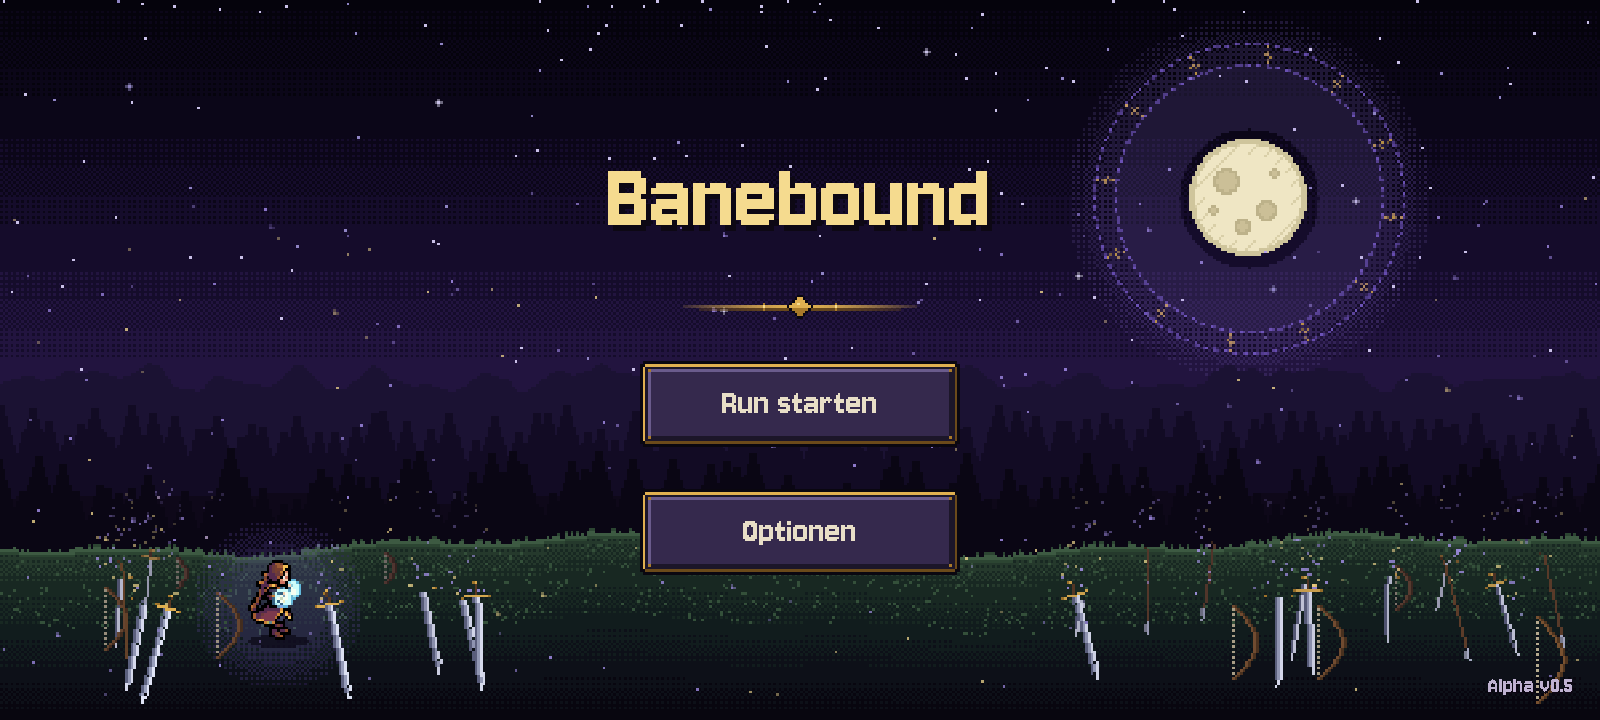
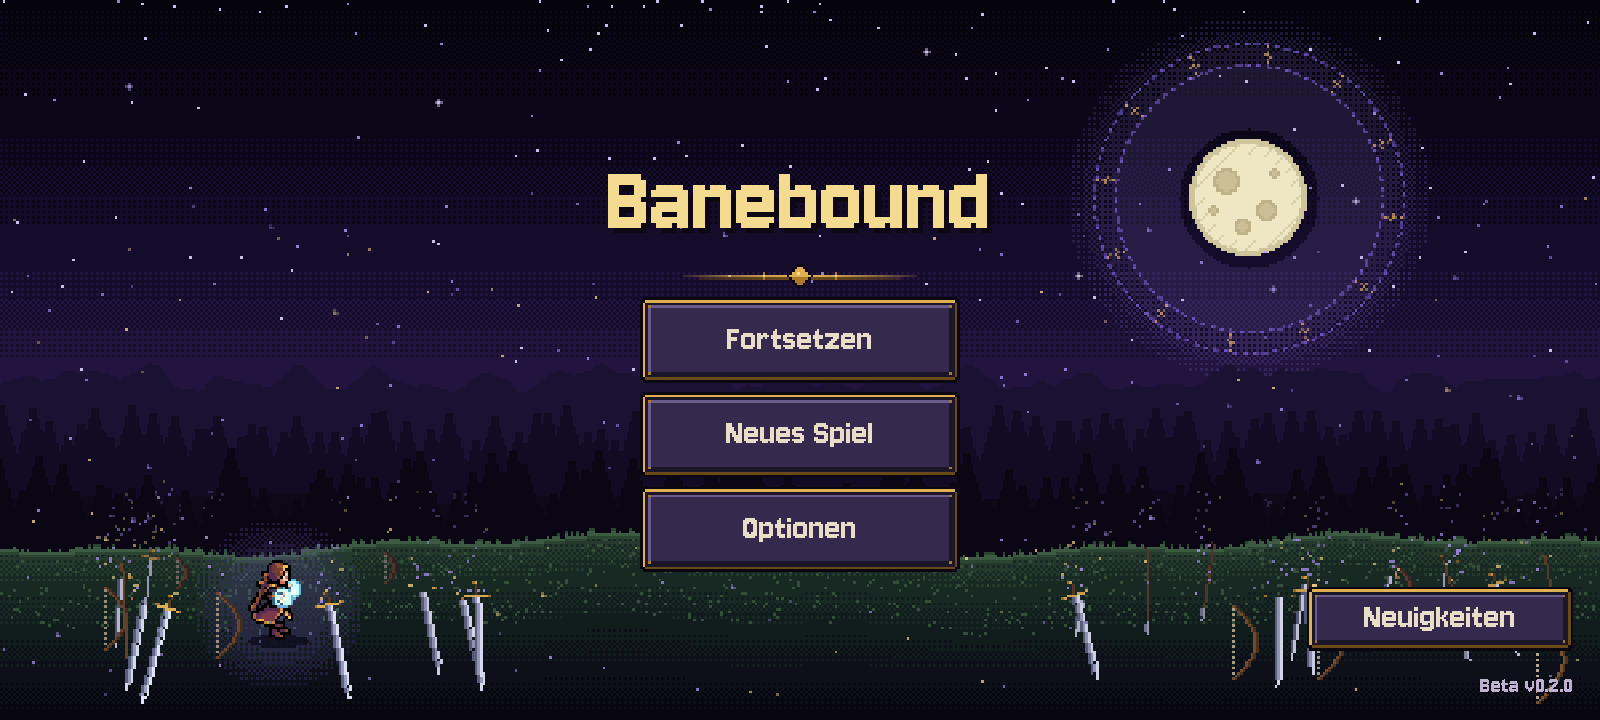
M8 complete: Beta v0.2.0, changelog entry, README with new screenshots
- Version Beta v0.2.0 (project.godot, export preset version code 5)
- Changelog: v0.2.0 entry dated 24.11.2026
- README: status, features and seven new screenshots (main menu,
  save slots, combat, level-up, resting place, status, run summary)
- PLAN: M8 marked complete

diff --git a/README.md b/README.md
@@ -9,11 +9,15 @@ from pure need, and return to rebuild a village that the old wars left in ashes.
   <img src="docs/screenshots/combat.png" alt="Fighting a horde of skeletons with four weapons" width="100%">
 </p>
 
-| Main menu | Level-up | Status screen |
+| Main menu | Save slots | Level-up |
 |---|---|---|
-| ![Main menu](docs/screenshots/main_menu.png) | ![Level-up cards](docs/screenshots/level_up.png) | ![Pause and status screen](docs/screenshots/pause_menu.png) |
+| ![Main menu](docs/screenshots/main_menu.png) | ![Three named save slots](docs/screenshots/save_slots.png) | ![Level-up cards with reroll and skip](docs/screenshots/level_up.png) |
 
-<sub>Screenshots from Alpha v0.5, recorded on PC in the aspect ratio of the test phone (20:9).</sub>
+| Resting place | Status screen | Run summary |
+|---|---|---|
+| ![Resting place with the soul shop](docs/screenshots/rest_stop.png) | ![Pause and status screen](docs/screenshots/pause_menu.png) | ![Victory screen with run summary](docs/screenshots/summary.png) |
+
+<sub>Screenshots from Beta v0.2.0, recorded on PC in the aspect ratio of the test phone (20:9).</sub>
 
 ---
 
@@ -46,12 +50,12 @@ from pure need, and return to rebuild a village that the old wars left in ashes.
   the enchanter and more, and unlock permanent upgrades.
 - **Hundreds of enemies on screen** – built from the ground up to stay smooth on mid-range phones.
 - **Made for touch** – floating or fixed joystick, left, right or both sides of the screen, adjustable transparency.
-- **Save and continue** – leave mid-run and pick up later. No save-scumming: shop offers and level-up choices are
-  locked in.
+- **Save and continue** – three named save slots; leave a run and pick it up later. No save-scumming: shop offers are
+  locked in, and a wave you leave starts over.
 
-## Current status – Beta v0.1.1
+## Current status – Beta v0.2.0
 
-Banebound is in development. A full expedition is playable from the first wave to the boss; the village and meta progression are next.
+Banebound is in development. A full expedition is playable from the first wave to the boss and can be saved and continued; the village and meta progression are next.
 
 **Playable now**
 
@@ -66,14 +70,16 @@ Banebound is in development. A full expedition is playable from the first wave t
 - **Level-ups with three cards:** new weapons and weapon upgrades in three rarities (common, rare, epic), with reroll and skip
 - **Resting place between waves** with a shop: spend **souls** earned from kills on hero boons
 - **Victory and defeat screens** with a run summary (waves, kills, level, souls, damage per weapon)
+- **Three named save slots:** the game saves at the start of every wave and at each resting place; leaving mid-wave restarts that wave
+- In-game **news** page with the changes of every version
 - HUD with health, XP bar and weapon slots; pause screen with detailed weapon stats and chosen upgrades
 - Options for joystick, damage numbers, health bars, screen shake and vibration
 
 **Coming next**
 
-- Saving and continuing a run
-- Sound and music, special abilities
-- Weapon evolutions, more stats (armour, regeneration, critical hits) and elite enemies
+- Obstacles on the map that heroes and monsters must walk around
+- A full stat system: armour, dodge, regeneration, critical hits, luck and more
+- Sound and music, special abilities, weapon evolutions and elite enemies
 - The village hub, armour and permanent upgrades
 
 ## Controls

diff --git a/PLAN.md b/PLAN.md
@@ -604,7 +604,7 @@ Nachtrag: eigene **Charge-Animation** (PixelLab, 2 Generierungen, `bone_knight_c
   Stimmen die Zahlen in der Zusammenfassung?
 - **Entscheidung nach M7 (2026-11-21):** Die alten Props-Texturen (`forest_props.png`) sind gelöscht, die Asset-Pläne haben sich seitdem geändert. Gewünscht sind stattdessen **Hindernisse passend zur jeweiligen Map** (im Wald z. B. Bäume, Felsen, umgestürzte Stämme), siehe „E0 – Map-Hindernisse“.
 
-### M8 – Run speichern & fortsetzen
+### M8 – Run speichern & fortsetzen (abgeschlossen 2026-11-24 → Beta v0.2.0)
 
 - Die genaue technische Umsetzung planen wir zu Beginn von M8. Diese Grundsätze stehen schon fest:
   - Im Pausemenü wird „Run aufgeben“ ergänzt durch **„Speichern & Hauptmenü“**. Im Hauptmenü erscheint **„Fortsetzen“**,
@@ -629,8 +629,7 @@ Nachtrag: eigene **Charge-Animation** (PixelLab, 2 Generierungen, `bone_knight_c
   „Fortsetzen“ funktioniert. Am Rastplatz etwas kaufen, App beenden, neu starten: Der Kauf ist noch da, die Angebote sind dieselben.
   Der Changelog lässt sich öffnen, scrollen und schließen.
 
-- ⚠ **Erinnerung nach Abschluss von M8:**
-  - README gemeinsam aktualisieren: Screenshots und Abschnitt „Current status“ erneuern (erste Screenshots kamen schon mit Alpha v0.5, `docs/screenshots/`).
+- **README aktualisiert (2026-11-24):** neue Screenshots mit Beta v0.2.0 (Hauptmenü, Speicherplätze, Kampf in Welle 8, Level-Up, Rastplatz, Status, Sieg) und „Current status“. Am Handy getestet: Benachrichtigungsleiste pausiert, Neuigkeiten lesbar.
 
 ➡ **Nach M8 ist das Grundspiel fertig.**
 
